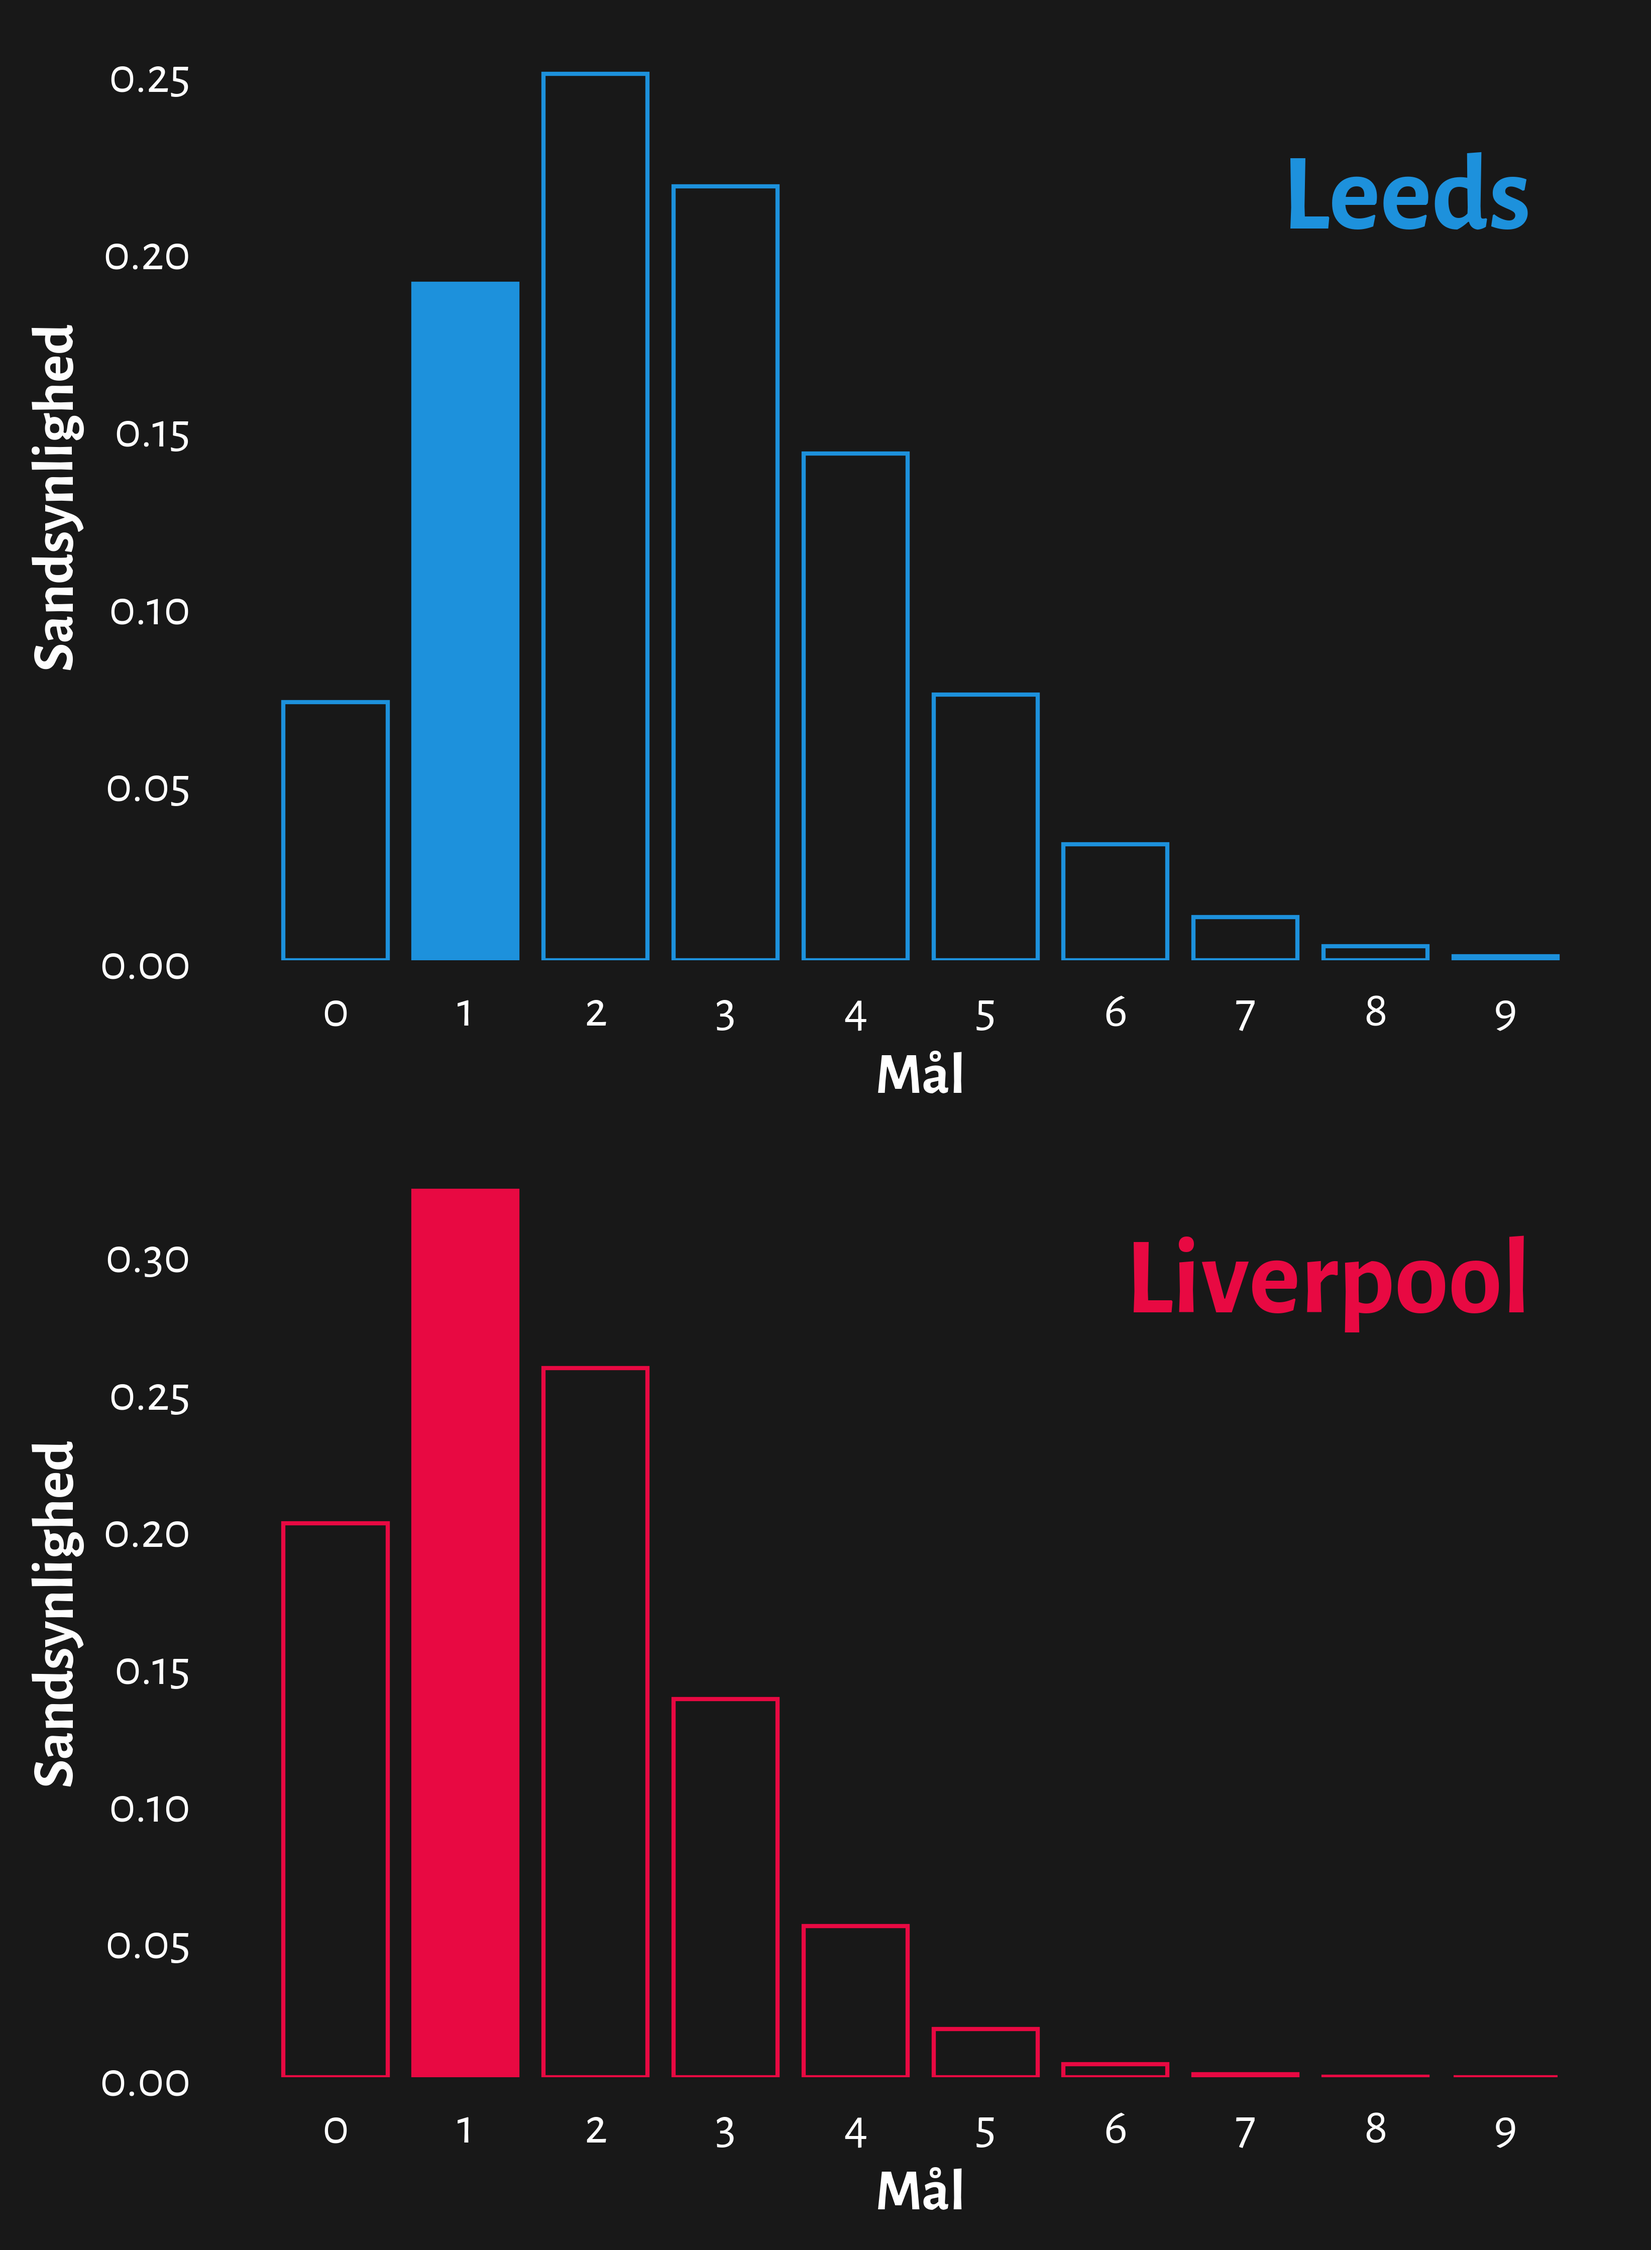
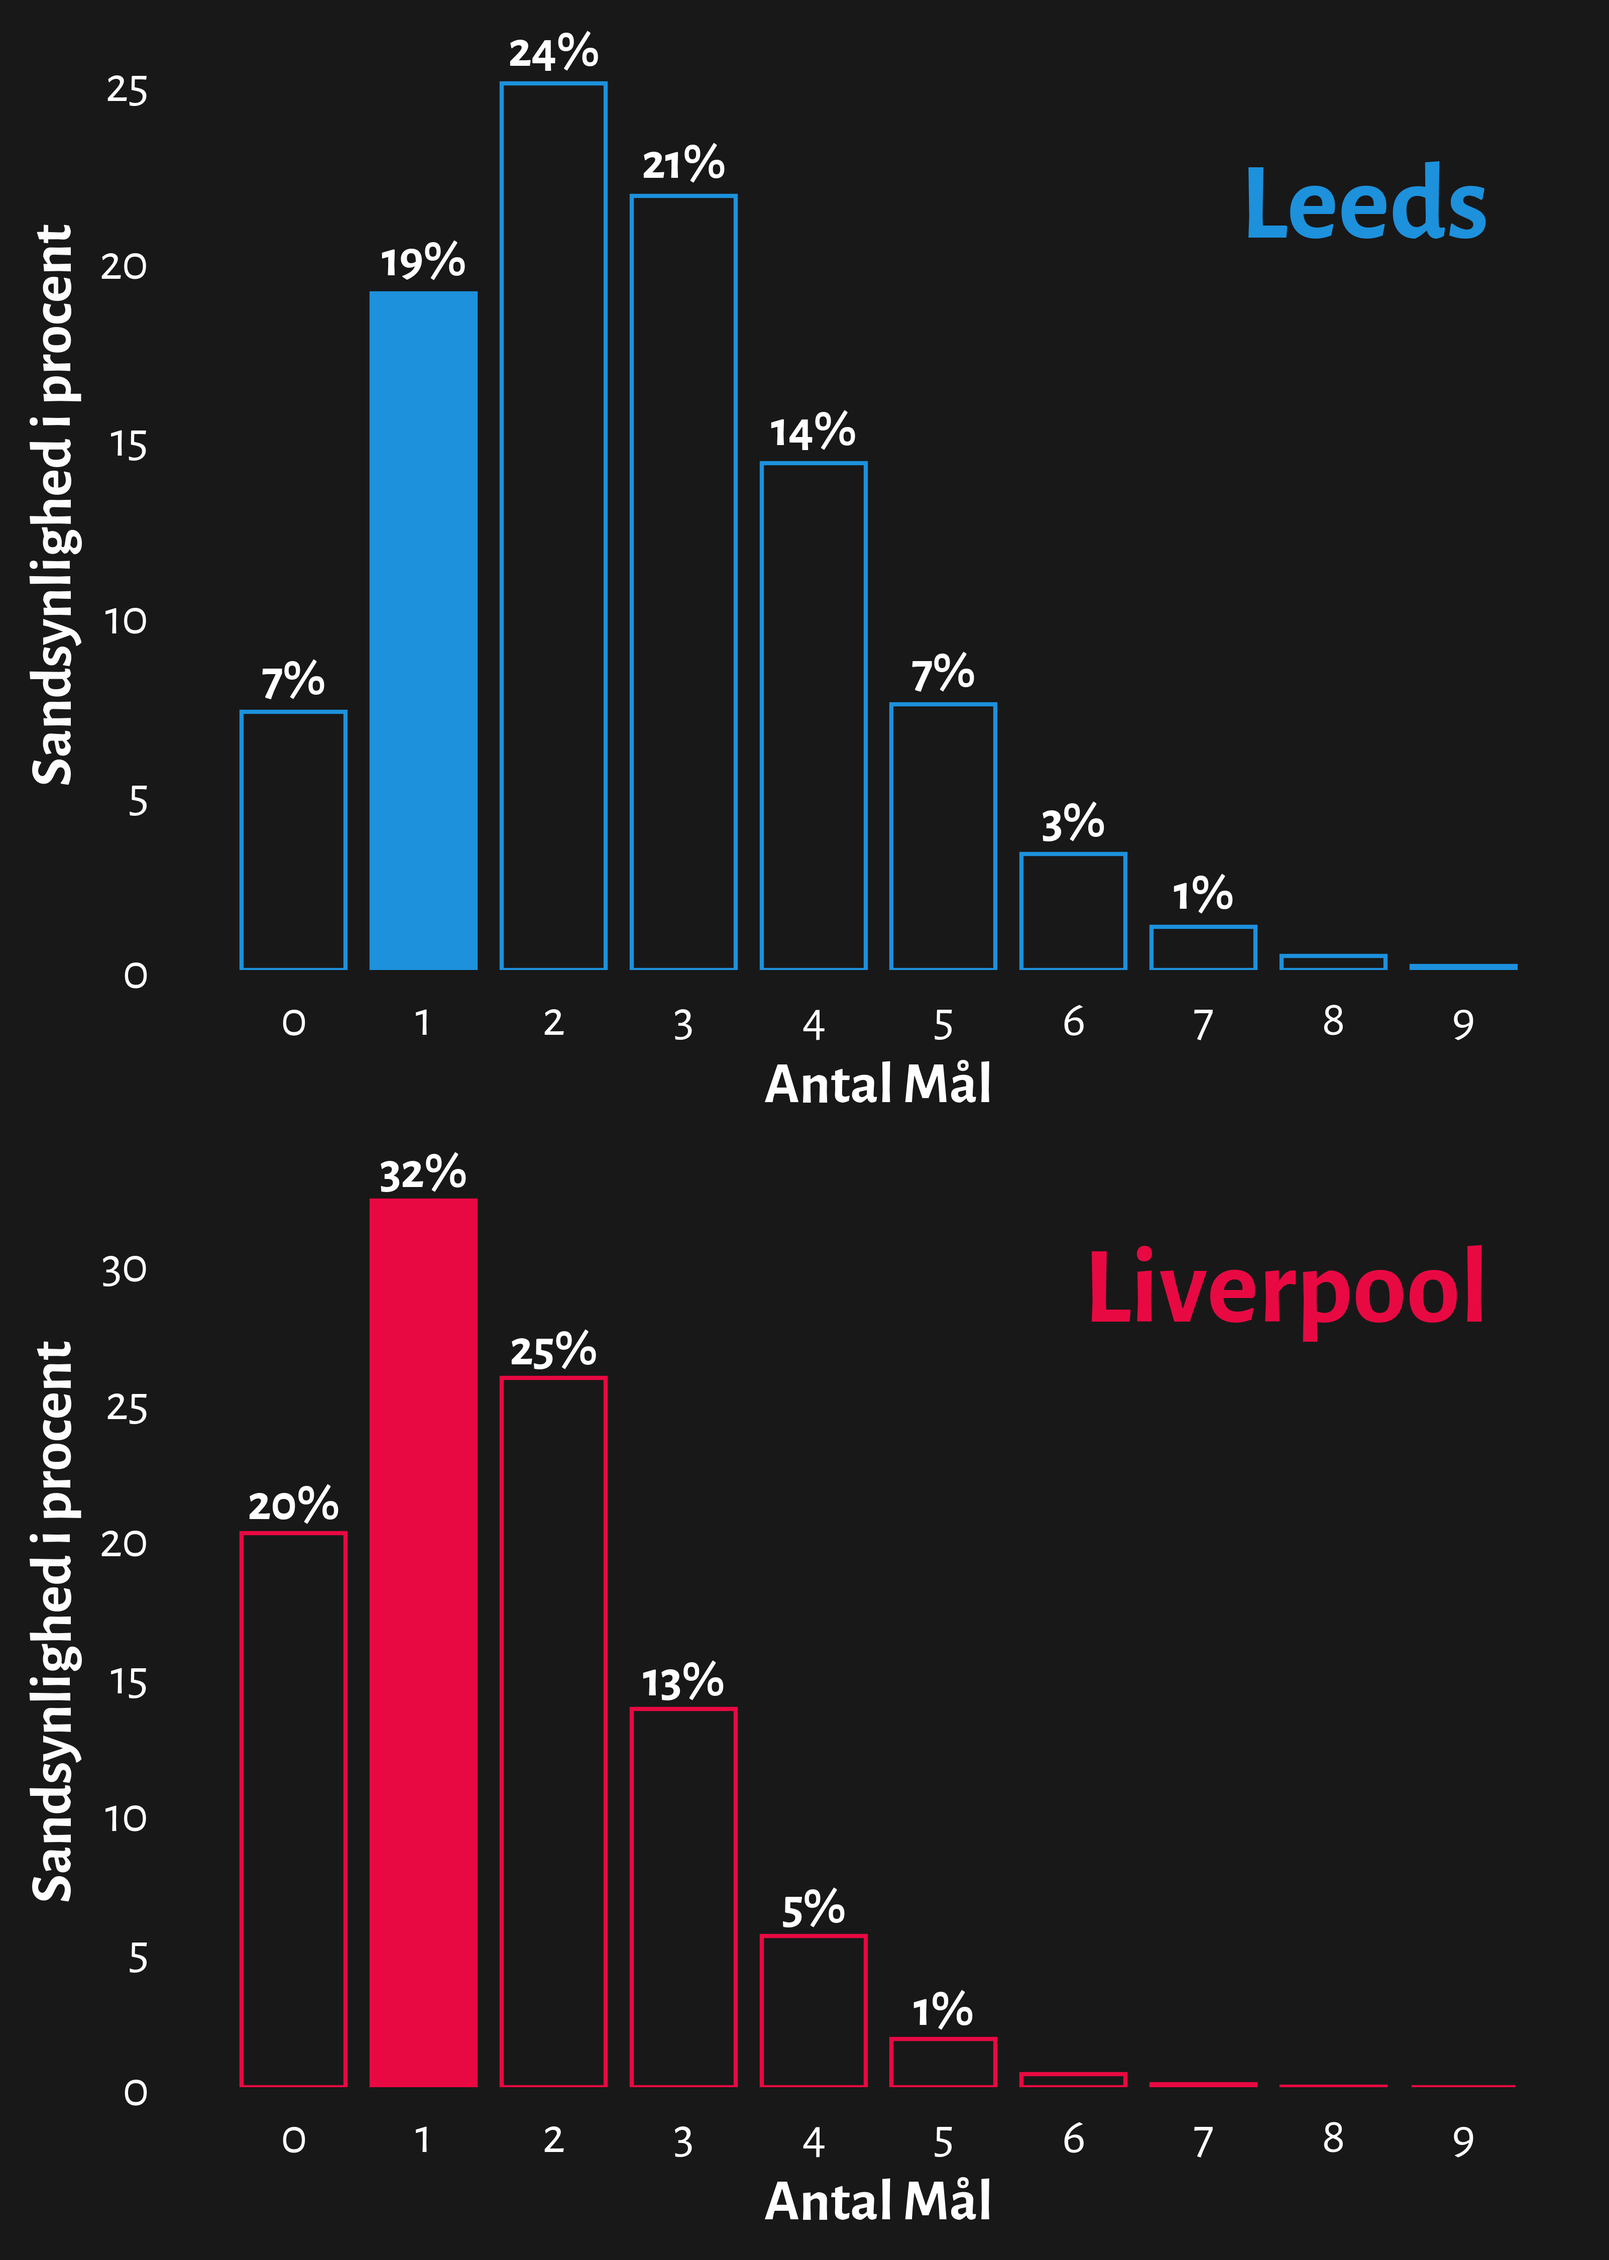
continued xG post

diff --git a/_posts/2021-04-25-Hvorfor-expected-goals-ikke-fortæller-resultatet-af-en-kamp.md b/_posts/2021-04-25-Hvorfor-expected-goals-ikke-fortæller-resultatet-af-en-kamp.md
@@ -30,10 +30,16 @@ Hvis vi igen kigger på Leeds (2.62 xG) mod Liverpool (1.60 xG) kan denne udregn
 ![alt text](/img/xG_infographic/goal_probabilities_viz.png)
 
 Når vi har udregnet sandsynligheden for at begge hold scorer mellem 0 og 9 mål kan vi nu udregne sandsynligheden for resultatet af kampen, f.eks. vil sandsynligheden for 1-1 være (0.19*0.32 = 0.0608) 6,05%, mens at sandsynligheden for at Leeds vinder 2-1 er (0.25*0.32 = 0.0807) 8,07%.
-Udregningen kan så gentages for alle mulige resultater, og ved at lægge alle resultater hvor Liverpool vinder (0-1, 1-2, osv.), Leeds vinder (1-0, 2-1 osv.) og uagjorte resultater sammen kan sandsynligheden for sejr, nederlag og ufgjort blive udregnet. Disse sandsynligheder i Leeds - Liverpool kampen er sådan fordelt:
+Udregningen kan så gentages for alle mulige resultater, og ved at lægge alle resultater hvor Liverpool vinder (0-1, 1-2, osv.), Leeds vinder (1-0, 2-1 osv.) og uagjorte resultater sammen kan sandsynligheden for sejr, nederlag og ufgjort blive udregnet. Disse sandsynligheder i kampen er fordelt således:
 
 ![alt text](/img/xG_infographic/win_probability_viz.png)
 
 ## Den komplette xG grafik
 
+De forskellige grafikker kan sammensættes i en enkel visualisering.
 
+![alt text](/img/xG_infographic/Leeds_vs_Liverpool_xG_infographic_gw32.png)
+
+Denne visualisering giver, sammenlignet til den traditionelle visualisering, en bedre forståelse af hvordan expected goals på enkelte kampe ikke fortæller resultatet. Fodbold er en udforudsigelig sport og man kan, som vist, gennem sandsynlighedsregning få en bedre intuitiv forståelse uforudsigeligheden og variansen af mål og enkelstående resultater i fodbold.
+
+Tak for at læse med, hvis du er interesseret kan koden for beregningerne og visualiseringerne findes [her](https://github.com/C-Roensholt/Improving-Match-xG-Infographics)
